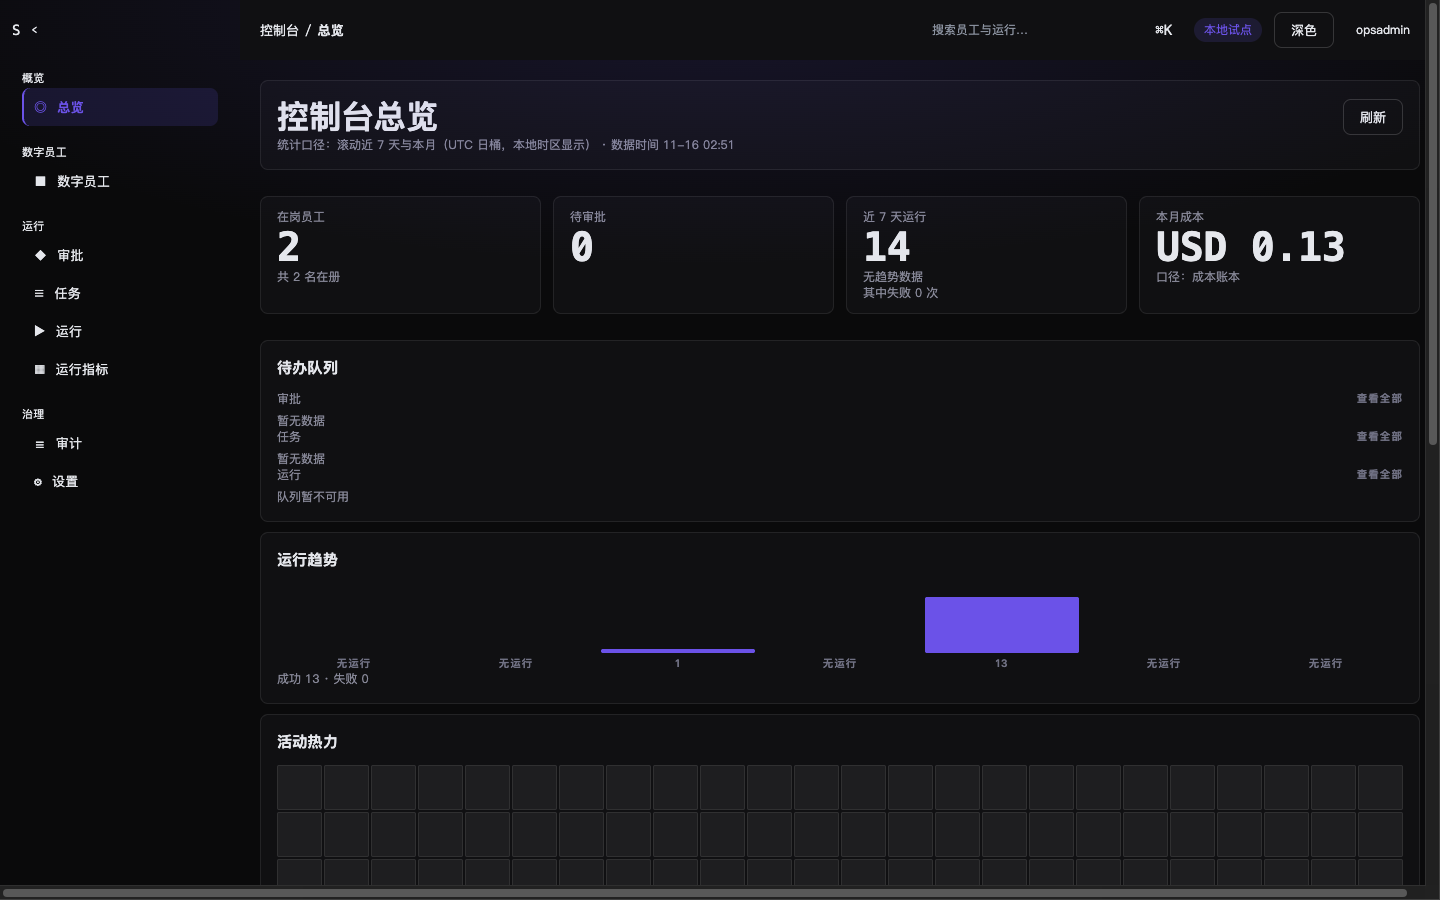
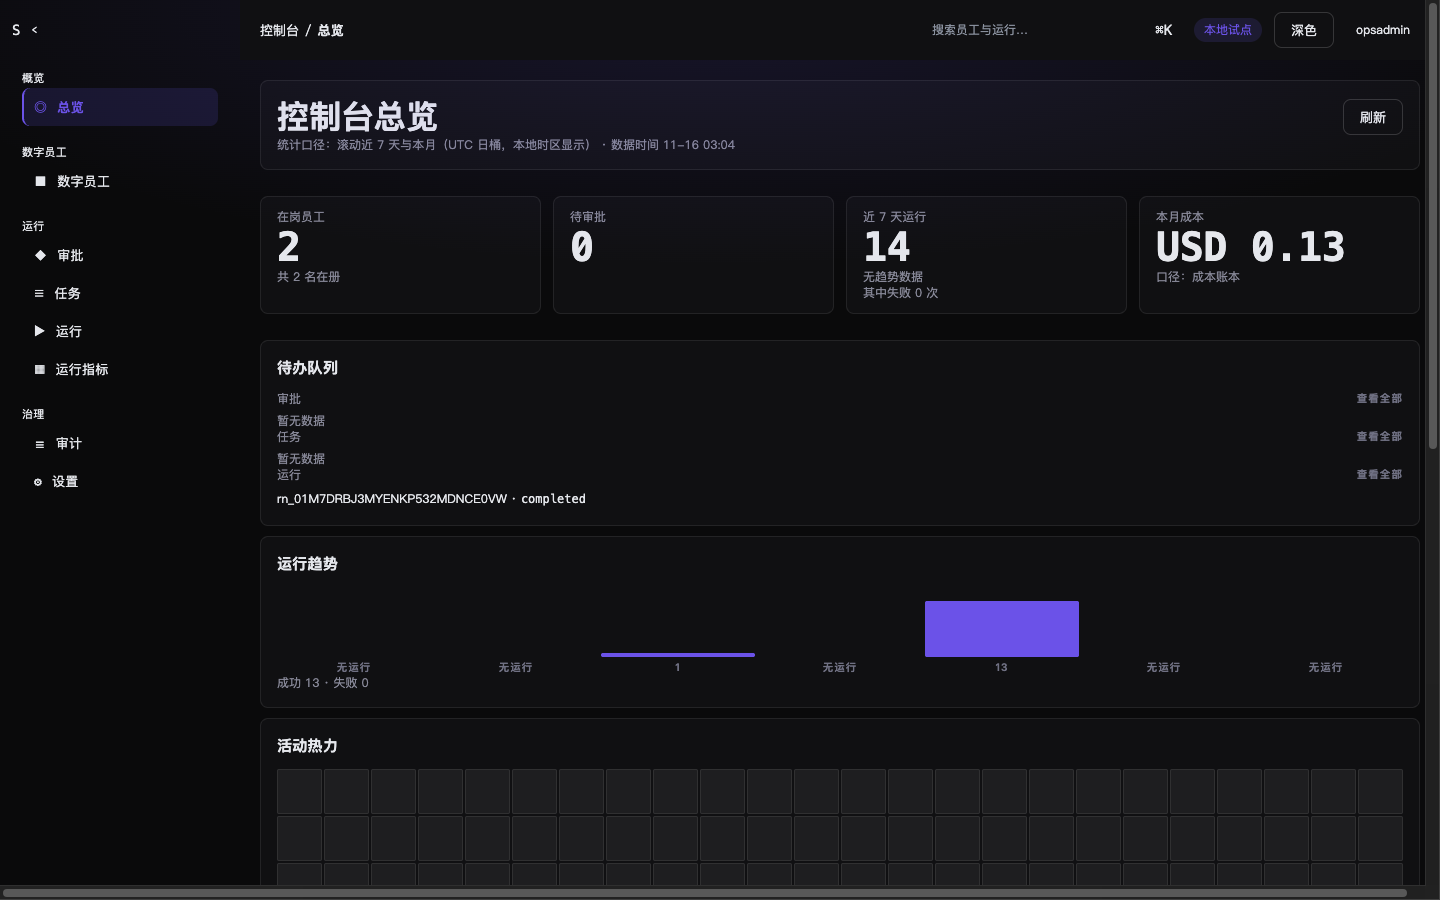
fix(console-v2): OV-01 queue runs request carries since filter (400 request.missing_filter closed)
OverviewPage.tsx: queue runs fetch now sends since=window24.from + limit=5 (single file +3/-1, reuses existing 24h window, no new helper/endpoint).

Re-run evidence (dev 5399 -> real BFF 8092, opsadmin session, 2026-11-16):
- runsNew /api/runs?since=<now-24h>&limit=5 = 200, n=1, rn_01M7DRBJ3MYENKP532MDNCE0VW completed
- queue runs section renders real row (queueRunsRows=1), no longer empty state
- runsOld bare ?limit=5 still 400 request.missing_filter as control only; page no longer sends it => failed resource expected 0 after L7 redeploy
- regression surface unchanged: blockTotal=8, kpiCount=4, placeholderCount=0, leaks all false, 375 sw==cw==375

Gates: platform lint exit 0; test -- src/pages/AgentConsoleV2 9 files / 112 passed (no regression).
Screenshots ov01-final-1440x900.png (160968B) / ov01-final-375x812.png (75729B) re-shot via CDP device metrics, sips-verified.

Process note: first evidence-append script clobbered EVIDENCE.md body; caught by git diff --cached --stat before commit, restored from HEAD and re-appended as pure +12.

diff --git a/src/frontend/platform/src/pages/AgentConsoleV2/OverviewPage.tsx b/src/frontend/platform/src/pages/AgentConsoleV2/OverviewPage.tsx
@@ -222,7 +222,9 @@ export function OverviewPage() {
         uid
           ? fetch<QueueBody>('/api/tasks', { assignee: `human:${uid}`, limit: 5 })
           : Promise.resolve(null),
-        fetch<QueueBody>('/api/runs', { limit: 5 }),
+        // Runs list requires a server-side filter (request.missing_filter);
+        // reuse the 24h window so the queue shows recent activity honestly.
+        fetch<QueueBody>('/api/runs', { since: window24.from, limit: 5 }),
         fetchActivity(fetch, { weeks: 4, tz: 'Asia/Shanghai' }),
         fetch<QueueBody>('/api/runs', { since: window24.from, limit: 8 }),
         fetch<AuditBody>('/api/audit', {

diff --git a/docs/validation/console/overview/EVIDENCE.md b/docs/validation/console/overview/EVIDENCE.md
@@ -75,3 +75,15 @@ opsadmin 真实登录 8182（CAPTCHA_LEN=4，口令零回显）；CDP `Emulation
 - 截图（CDP Emulation.setDeviceMetricsOverride 真视口，sips 实测）：`ov01-final-1440x900.png` 157599B 1440×900；`ov01-final-375x812.png` 72791B 375×812；原始探针输出在 `readout.txt` 末段。
 - 门禁：platform lint exit 0；`test -- src/pages/AgentConsoleV2` Test Files 9 passed (9)、Tests 112 passed (112) 不回退。
 - 边界声明：本拍不动 8182/Caddy/BFF/受管服务；dev 5399 仅过程预览（起后已停）；served entry 对账归 L7；本节只交证据与实现，**不判 PASS**。
+
+### 片3 修复子项：运行队列 400 request.missing_filter 关闭（L0 卡 2533）
+
+- 缺陷：L7 部署 `2c34afb` 后 8182 出现 1 条 failed resource：`GET /agent-api/api/runs?limit=5` → 400 `request.missing_filter`。根因=`OverviewPage.tsx` 队列运行段只传 `limit`，未传 BFF 白名单过滤参数。
+- 修复：该请求改为 `fetch<QueueBody>('/api/runs', { since: window24.from, limit: 5 })`（复用现有 24h 窗口 `window24`，不加新 helper、不加新端点；单文件 +3/−1，带英文注释）。
+- 复跑证据（本地 dev 5399 代理真实 BFF 8092，opsadmin 登录态，2026-11-16 03:06 复拍）：
+  - `runsNew`（`/api/runs?since=<now-24h>&limit=5`）= **200**，n=1，首条 `rn_01M7DRBJ3MYENKP532MDNCE0VW · completed`（createdAt 2026-11-14T19:25:40.345Z，在 24h 窗内）。
+  - 页面队列运行段显示真实行（DOM `queueRunsRows=1`，文本 `运行 查看全部 rn_01M7DRBJ3MYENKP532MDNCE0VW · completed`），不再是空态；`queueRunsEmptyMark=false`。
+  - 对照 `runsOld`（裸 `?limit=5`）直连仍 400 `request.missing_filter`——仅作 BFF 守卫行为对照，页面自身已不再发该请求 ⇒ 预期 L7 重新部署后 **failed resource=0**。
+  - 回归面不变：blockTotal=8、kpiCount=4（在岗 2 / 待审批 0 / 近 7 天运行 14 无趋势数据 其中失败 0 次 / 本月成本 USD 0.13 口径：成本账本）、quota 两条 1.2%/0.1%、activityRows=9（11-14 19:25Z 一条运行行滚出 24h 窗属正常时间语义）、placeholderCount=0、leaks 全 false；375 mobile 口径 sw==cw==375、overflow 仍仅 rail 横滚区。
+  - 截图覆盖同名重拍：`ov01-final-1440x900.png` 160968B 1440×900；`ov01-final-375x812.png` 75729B 375×812（字节数较片3 首拍变化=队列段空态→真实行的视觉证据）；探针原文见 `readout.txt` 末段 `l4x5-shots2.out`。
+  - 门禁复跑：platform lint exit 0；`test -- src/pages/AgentConsoleV2` Test Files 9 passed (9)、Tests 112 passed (112) 不回退。
